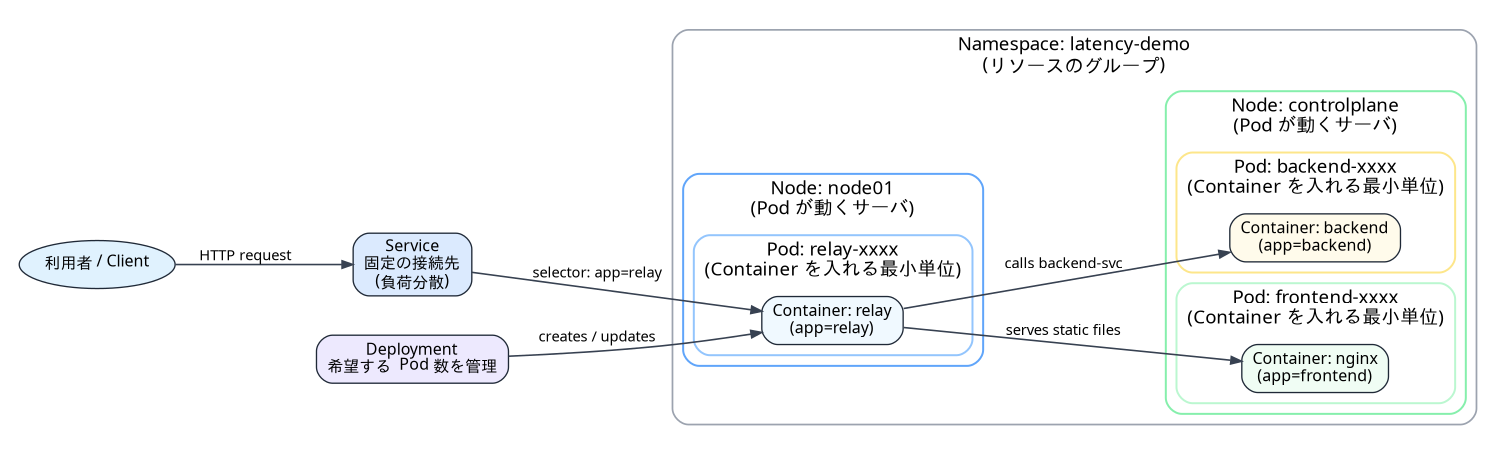
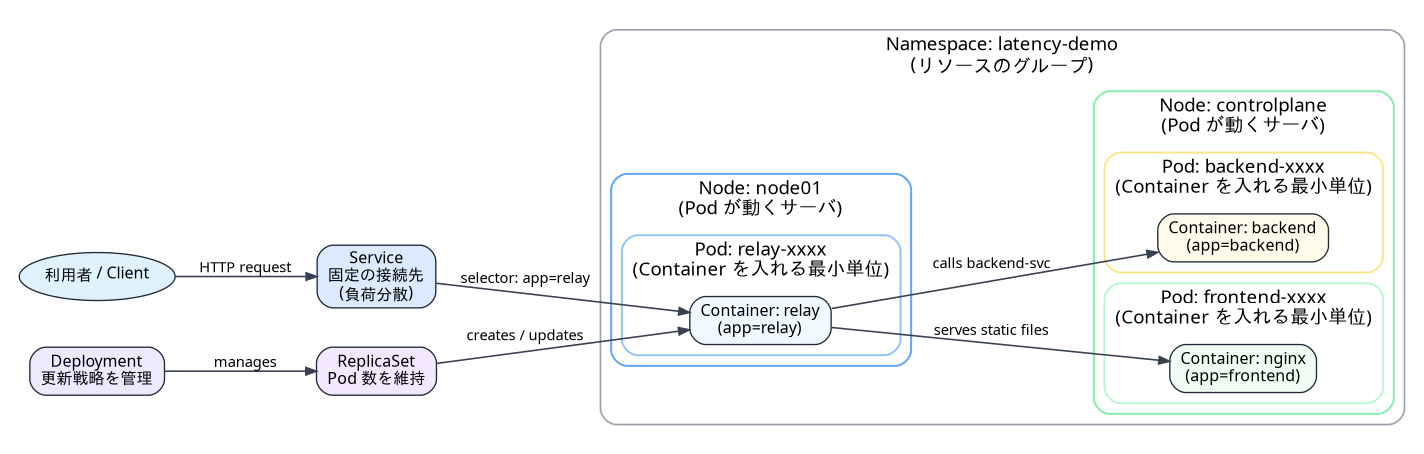
k8s説明追加

diff --git a/relay_Web_performance/step2.md b/relay_Web_performance/step2.md
@@ -25,7 +25,7 @@ kubectl describe nodes
 
 📌 **補足**
 
-* `describe` は状態だけでなく **イベント（トラブルシュート時に重要）** も確認できる
+* describe は状態だけでなく **イベント（トラブルシュート時に重要）** も確認できる
 * Pod は通常 **Deployment / ReplicaSet によって管理** されている
 
 ---
@@ -45,7 +45,7 @@ kubectl -n latency-demo top pods
 
 📌 **注意点**
 
-* `kubectl top` は **metrics-server がクラスタにデプロイされていることが前提**
+* kubectl top は **metrics-server がクラスタにデプロイされていることが前提**
 * metrics-server が無い場合はエラーになる
 
 ---
@@ -59,7 +59,7 @@ kubectl -n latency-demo describe pod <pod名>
 
 📌 **補足**
 
-* `<pod名>` は以下で確認
+* <pod名> は以下で確認
 
   ```bash
   kubectl get pods -n latency-demo
@@ -77,8 +77,8 @@ kubectl -n latency-demo logs <pod名>
 
 📌 **補足・注意点**
 
-* 複数コンテナを持つ Pod の場合は `-c <container名>`(relay, backend, nginx) が必要
-* 過去のログを見たい場合は `--previous` を使用
+* 複数コンテナを持つ Pod の場合は -c <container名>(relay, backend, nginx) が必要
+* 過去のログを見たい場合は --previous を使用
 
 ---
 
@@ -94,7 +94,7 @@ kubectl -n latency-demo scale deploy/<deploy名> --replicas=0
 
 📌 **補足**
 
-* `<deploy名>` は以下で確認
+* <deploy名> は以下で確認
 
   ```bash
   kubectl -n latency-demo get deploy
@@ -126,9 +126,9 @@ kubectl -n latency-demo exec -it <pod名> -- /bin/bash
 
 📌 **注意点**
 
-* `/bin/bash` が存在しないイメージでは失敗する
+* /bin/bash が存在しないイメージでは失敗する
 
-  * その場合は `/bin/sh` を使用
+  * その場合は /bin/sh を使用
 * 本番環境では **exec ログインを制限している場合** がある
 
 ---

diff --git a/relay_Web_performance/step3.md b/relay_Web_performance/step3.md
@@ -25,7 +25,7 @@ kubectl describe nodes
 
 📌 **補足**
 
-* `describe` は状態だけでなく **イベント（トラブルシュート時に重要）** も確認できる
+* describe は状態だけでなく **イベント（トラブルシュート時に重要）** も確認できる
 * Pod は通常 **Deployment / ReplicaSet によって管理** されている
 
 ---
@@ -45,7 +45,7 @@ kubectl -n latency-demo top pods
 
 📌 **注意点**
 
-* `kubectl top` は **metrics-server がクラスタにデプロイされていることが前提**
+* kubectl top は **metrics-server がクラスタにデプロイされていることが前提**
 * metrics-server が無い場合はエラーになる
 
 ---
@@ -59,7 +59,7 @@ kubectl -n latency-demo describe pod <pod名>
 
 📌 **補足**
 
-* `<pod名>` は以下で確認
+* <pod名> は以下で確認
 
   ```bash
   kubectl get pods -n latency-demo
@@ -77,8 +77,8 @@ kubectl -n latency-demo logs <pod名>
 
 📌 **補足・注意点**
 
-* 複数コンテナを持つ Pod の場合は `-c <container名>`(relay, backend, nginx) が必要
-* 過去のログを見たい場合は `--previous` を使用
+* 複数コンテナを持つ Pod の場合は -c <container名>(relay, backend, nginx) が必要
+* 過去のログを見たい場合は --previous を使用
 
 ---
 
@@ -94,7 +94,7 @@ kubectl -n latency-demo scale deploy/<deploy名> --replicas=0
 
 📌 **補足**
 
-* `<deploy名>` は以下で確認
+* <deploy名> は以下で確認
 
   ```bash
   kubectl -n latency-demo get deploy
@@ -126,9 +126,9 @@ kubectl -n latency-demo exec -it <pod名> -- /bin/bash
 
 📌 **注意点**
 
-* `/bin/bash` が存在しないイメージでは失敗する
+* /bin/bash が存在しないイメージでは失敗する
 
-  * その場合は `/bin/sh` を使用
+  * その場合は /bin/sh を使用
 * 本番環境では **exec ログインを制限している場合** がある
 
 ---
